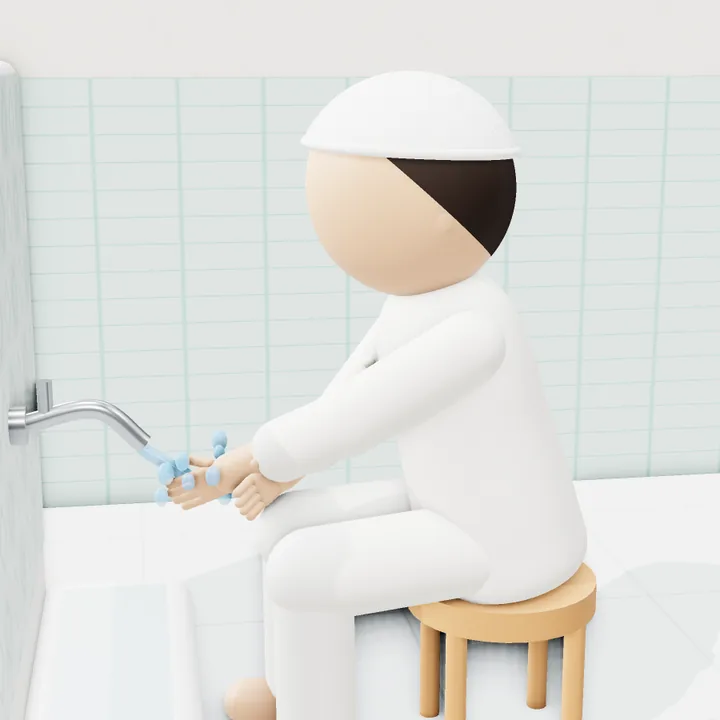
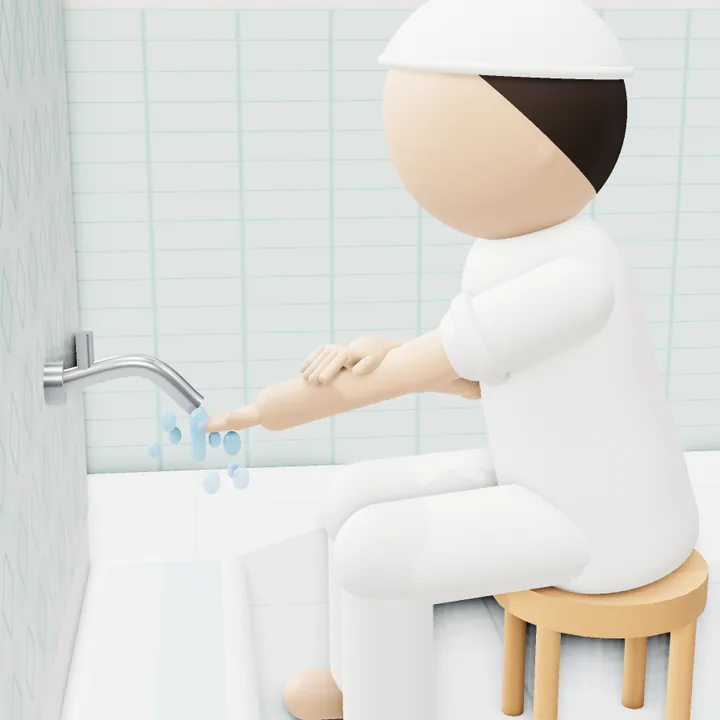
Kids wudu step 5 picture: sleeves rolled up, forearm under the water, the other hand washing it up to the elbow
Owner 2026-11-21: «صورة غسل اليدين إلى المرفق غير صحيحة».

Claude-Session: https://claude.ai/code/session_01SRnbYn2BHZ3VMK8jTQYQJD

diff --git a/tools/kids_steps_3d/scene.html b/tools/kids_steps_3d/scene.html
@@ -203,7 +203,10 @@ const headC = neckTop.clone().add(hy.clone().multiplyScalar(LEN.headR * 0.95));
 const HK = LEN.headR / 0.19; // poses were written for a 0.19 head
 const inHead = (o) => headC.clone().add(hx.clone().multiplyScalar(o[0] * HK)).add(hy.clone().multiplyScalar(o[1] * HK)).add(hz.clone().multiplyScalar(o[2] * HK));
 const inTorso = (o) => pelvis.clone().add(sideT.clone().multiplyScalar(o[0])).add(tUp.clone().multiplyScalar(o[1])).add(fwdT.clone().multiplyScalar(o[2]));
-const target = (t) => t.head ? inHead(t.head) : t.torso ? inTorso(t.torso) : L(t);
+const arms = {};
+// {lArm: f, up: u}: a point f of the way from the left elbow to the left wrist, lifted u above it.
+const target = (t) => t.head ? inHead(t.head) : t.torso ? inTorso(t.torso)
+  : t.lArm !== undefined ? arms.l.mid.clone().lerp(arms.l.end, t.lArm).add(new THREE.Vector3(0, t.up ?? 0.05, 0)) : L(t);
 
 // Torso: a soft robe shape from the hips to the shoulders.
 {
@@ -247,10 +250,21 @@ for (const s of [1, -1]) {
   const t = target(P[key + 'Hand']);
   const pole = target(P[key + 'Elbow'] ?? { torso: [s * 0.5, 0.1, -0.3] });
   const { mid, end } = ik(sh, t, LEN.upper, LEN.fore, pole);
-  capsule(sh, mid, 0.055, mat.robe);
-  const cuff = mid.clone().add(end.clone().sub(mid).multiplyScalar(0.55));
-  capsule(mid, cuff, 0.05, mat.robe);
-  capsule(cuff, end, 0.032, mat.skin);
+  arms[key] = { mid, end };
+  if (P[key + 'SleeveUp']) {
+    // Sleeve rolled up above the elbow: the whole forearm and elbow show (washing to the elbows).
+    const roll = sh.clone().add(mid.clone().sub(sh).multiplyScalar(0.6));
+    capsule(sh, roll, 0.055, mat.robe);
+    const fold = add(new THREE.Mesh(new THREE.TorusGeometry(0.05, 0.016, 10, 24), mat.robe));
+    fold.position.copy(roll); fold.quaternion.setFromUnitVectors(new THREE.Vector3(0, 0, 1), mid.clone().sub(sh).normalize());
+    capsule(roll, mid, 0.036, mat.skin);
+    capsule(mid, end, 0.032, mat.skin);
+  } else {
+    capsule(sh, mid, 0.055, mat.robe);
+    const cuff = mid.clone().add(end.clone().sub(mid).multiplyScalar(0.55));
+    capsule(mid, cuff, 0.05, mat.robe);
+    capsule(cuff, end, 0.032, mat.skin);
+  }
   const d = end.clone().sub(mid).normalize();
   const inward = side.clone().multiplyScalar(-s);
   let pn = (P[key + 'Palm'] ? (P[key + 'Palm'].torso ? inTorso(P[key + 'Palm'].torso).sub(pelvis) : V(P[key + 'Palm']).applyAxisAngle(UP, yaw)) : inward).normalize();

diff --git a/tools/kids_steps_3d/poses.js b/tools/kids_steps_3d/poses.js
@@ -11,7 +11,7 @@ export const POSES = {
   'w-mouth': W({ lHand: [0.08, 0.42, 0.2], rHand: { head: [-0.03, -0.1, 0.2] }, rElbow: { torso: [-0.4, -0.2, 0.2] } }),
   'w-nose': W({ lHand: [0.08, 0.42, 0.2], rHand: { head: [-0.02, -0.04, 0.22] }, rElbow: { torso: [-0.4, -0.2, 0.2] } }),
   'w-face': W({ lHand: { head: [0.1, -0.03, 0.17] }, rHand: { head: [-0.1, -0.03, 0.17] }, lElbow: { torso: [0.3, -0.3, 0.3] }, rElbow: { torso: [-0.3, -0.3, 0.3] } }),
-  'w-arms': W({ lHand: [0.02, 0.47, 0.48], rHand: [0.05, 0.52, 0.32], rElbow: { torso: [-0.5, 0.1, 0] }, water: [[0, 0.55, 0.53], [0.02, 0.5, 0.45]] }),
+  'w-arms': W({ lSleeveUp: true, rSleeveUp: true, lHand: [-0.02, 0.47, 0.64], lElbow: { torso: [0.7, -0.4, 0.1] }, lPalm: [0, 1, 0], rHand: { lArm: 0.35, up: 0.03 }, rPalm: [0, -1, 0], rElbow: { torso: [-0.4, 0.2, -0.3] }, rCurl: 0.9, water: [[0, 0.55, 0.53], [0.0, 0.49, 0.53]], look: [0, 0.62, 0.3], zoom: 0.7 }),
   'w-head': W({ lHand: { head: [0.07, 0.1, 0.02] }, rHand: { head: [-0.07, 0.1, 0.02] }, lElbow: { torso: [0.5, 0.6, 0.2] }, rElbow: { torso: [-0.5, 0.6, 0.2] } }),
   'w-ears': W({ lHand: { head: [0.2, 0.0, 0.0] }, rHand: { head: [-0.2, 0.0, 0.0] }, lElbow: { torso: [0.6, 0.0, 0.1] }, rElbow: { torso: [-0.6, 0.0, 0.1] } }),
   'w-feet': W({ chest: [0, 0.74, 0.14], rFoot: [-0.04, 0.3, 0.45], rKnee: [-0.3, 1.2, 0.6], rFootDir: [0, 0, 1], lHand: [0.0, 0.36, 0.48], rHand: [-0.09, 0.4, 0.42], water: [[0, 0.55, 0.53], [-0.03, 0.36, 0.5]] }),
